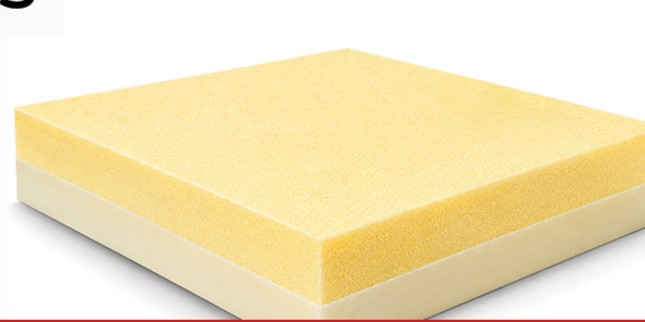
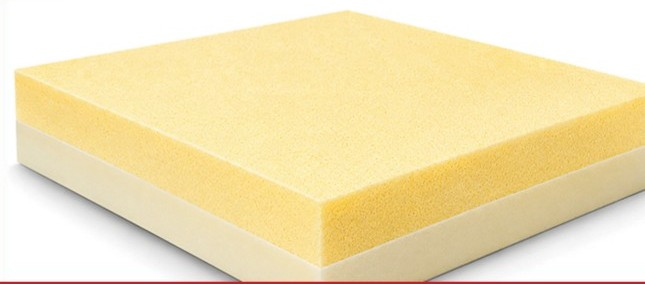
doors changes

diff --git a/src/components/MetalDoors.jsx b/src/components/MetalDoors.jsx
@@ -2,26 +2,43 @@
 import React from 'react';
 import Image from 'next/image';
 import Link from 'next/link';
+import {
+  IndianRupee,
+  SlidersHorizontal,
+  Clock3,
+  BadgeCheck,
+  Boxes,
+  Ruler,
+  FlaskConical,
+  DoorOpen,
+  ShieldAlert,
+  ShieldCheck,
+  AlignJustify,
+  MoveVertical,
+  Lock,
+  PersonStanding,
+  Building2,
+} from 'lucide-react';
 
 const PRODUCT_CATEGORIES = [
-  { name: 'Scientific Door', anchor: 'scientific-door' },
-  { name: 'Cleanroom Door', anchor: 'scientific-door' },
-  { name: 'Fire-Related Door', anchor: 'fire-rated-door' },
-  { name: 'Stainless Steel Doors', anchor: 'stainless-steel-door' },
-  { name: 'General Door & Louvered Door', anchor: 'general-door' },
-  { name: 'Shaft Door', anchor: 'shaft-door' },
-  { name: 'Hatch Door', anchor: null },
-  { name: 'Emergency Exit Door', anchor: null },
-  { name: 'Commercial Building Metal Louvers', anchor: 'metal-louvers' },
+  { name: 'Scientific Door', anchor: 'scientific-door', icon: FlaskConical },
+  { name: 'Cleanroom Door', anchor: 'scientific-door', icon: DoorOpen },
+  { name: 'Fire-Related Door', anchor: 'fire-rated-door', icon: ShieldAlert },
+  { name: 'Stainless Steel Doors', anchor: 'stainless-steel-door', icon: ShieldCheck },
+  { name: 'General Door & Louvered Door', anchor: 'general-door', icon: AlignJustify },
+  { name: 'Shaft Door', anchor: 'shaft-door', icon: MoveVertical },
+  { name: 'Hatch Door', anchor: null, icon: Lock },
+  { name: 'Emergency Exit Door', anchor: null, icon: PersonStanding },
+  { name: 'Commercial Building Metal Louvers', anchor: 'metal-louvers', icon: Building2 },
 ];
 
 const ADVANTAGES = [
-  'Cost-Effective Construction',
-  'Full Control of Design at all Stages',
-  'Minimum Production Lead and Delivery Time',
-  'Production Quality Certified to Standards',
-  'Modular Construction Facility for Easy Transportation',
-  'Variety of Custom Finishes',
+  { text: 'Cost-Effective Construction', icon: IndianRupee, color: 'bg-blue-900' },
+  { text: 'Full Control of Design at all Stages', icon: SlidersHorizontal, color: 'bg-red-700' },
+  { text: 'Minimum Production Lead and Delivery Time', icon: Clock3, color: 'bg-blue-900' },
+  { text: 'Production Quality Certified to Standards', icon: BadgeCheck, color: 'bg-red-700' },
+  { text: 'Modular Construction Facility for Easy Transportation', icon: Boxes, color: 'bg-blue-900' },
+  { text: 'Variety of Custom Finishes', icon: Ruler, color: 'bg-red-700' },
 ];
 
 const COLOR_CODES = [
@@ -54,10 +71,10 @@ const SPEC_ROWS = [
   },
   {
     label: 'Shutter Thickness',
-    cleanroom: ['44 mm'],
-    commercial: ['44 mm'],
-    general: ['44 mm'],
-    fire: ['44 mm'],
+    cleanroom: ['46 mm'],
+    commercial: ['46 mm'],
+    general: ['46 mm'],
+    fire: ['46 mm'],
   },
   {
     label: 'Infill Material',
@@ -98,7 +115,7 @@ const INFILL_MATERIALS = [
   {
     name: 'Rockwool',
     image: '/assets/images/metal-doors/rockwool.jpg',
-    color: 'bg-blue-900',
+    color: 'bg-amber-800',
     points: [
       'High density rockwool board insulation produced from molten basalt spun to fine fibers and bonded with heat resistant binder',
       'Meets the requirements of technical fire performance',
@@ -196,23 +213,6 @@ export default function MetalDoors() {
         </div>
       </section>
 
-      {/* ---------- About Us ---------- */}
-      <section className="max-w-6xl mx-auto px-6 py-8">
-        <h2 className="text-3xl font-bold mb-4 text-blue-800">About Us</h2>
-        <p className="mb-4">
-          Global Enviro Air Systems Pvt. Ltd. is a leading company in Air Pollution Control, HVAC Systems
-          and Cleanroom Technology Systems, Bulk Material Handling, Metal Doors, Engineered Metal Products
-          and end-to-end industrial solutions. Our expertise spans clean room technology, metal castings,
-          and global import-export operations. What sets us apart is our commitment to truly understanding
-          client needs and delivering solutions that work.
-        </p>
-        <p>
-          As one of the industry&apos;s most trusted names, Global Enviro Air Systems Pvt. Ltd. is
-          strategically expanding across diverse sectors. We envision strong, sustainable growth
-          throughout the subcontinent in the years ahead.
-        </p>
-      </section>
-
       {/* ---------- Our Metal Doors ---------- */}
       <section className="max-w-6xl mx-auto grid md:grid-cols-2 gap-8 items-start px-6 py-8">
         <div>
@@ -259,10 +259,12 @@ export default function MetalDoors() {
           Advantages of Our Metal Doors
         </h2>
         <div className="grid sm:grid-cols-2 md:grid-cols-3 gap-6">
-          {ADVANTAGES.map((item) => (
-            <div key={item} className="flex items-start gap-3 bg-gray-50 rounded-lg p-4 border border-gray-100">
-              <span className="mt-1 h-2 w-2 rounded-full bg-red-700 flex-shrink-0" />
-              <span className="font-semibold text-gray-700">{item}</span>
+          {ADVANTAGES.map(({ text, icon: Icon, color }) => (
+            <div key={text} className="flex items-center gap-4 bg-white rounded-lg p-4 border border-gray-100 shadow-sm">
+              <span className={`flex items-center justify-center h-12 w-12 rounded-full ${color} flex-shrink-0`}>
+                <Icon className="h-6 w-6 text-white" />
+              </span>
+              <span className="font-semibold text-gray-700">{text}</span>
             </div>
           ))}
         </div>
@@ -272,24 +274,33 @@ export default function MetalDoors() {
       <section className="max-w-6xl mx-auto px-6 py-8 bg-gray-50 rounded-2xl">
         <h2 className="text-2xl font-semibold text-blue-800 mb-6">Our Products</h2>
         <div className="grid sm:grid-cols-2 md:grid-cols-3 gap-4">
-          {PRODUCT_CATEGORIES.map((cat) =>
-            cat.anchor ? (
+          {PRODUCT_CATEGORIES.map((cat) => {
+            const Icon = cat.icon;
+            const content = (
+              <>
+                <span className="flex items-center justify-center h-10 w-10 rounded-full bg-blue-900 flex-shrink-0">
+                  <Icon className="h-5 w-5 text-white" />
+                </span>
+                <span className="font-semibold">{cat.name}</span>
+              </>
+            );
+            return cat.anchor ? (
               <a
                 key={cat.name}
                 href={`#${cat.anchor}`}
-                className="bg-white rounded-lg border border-gray-200 px-4 py-3 font-semibold text-gray-700 hover:border-blue-300 hover:text-blue-700 hover:shadow-sm transition"
+                className="flex items-center gap-3 bg-white rounded-lg border border-gray-200 px-4 py-3 text-gray-700 hover:border-blue-300 hover:text-blue-700 hover:shadow-sm transition"
               >
-                {cat.name}
+                {content}
               </a>
             ) : (
               <div
                 key={cat.name}
-                className="bg-white rounded-lg border border-gray-200 px-4 py-3 font-semibold text-gray-500"
+                className="flex items-center gap-3 bg-white rounded-lg border border-gray-200 px-4 py-3 text-gray-500"
               >
-                {cat.name}
+                {content}
               </div>
-            )
-          )}
+            );
+          })}
         </div>
       </section>
 
@@ -401,8 +412,9 @@ export default function MetalDoors() {
 
       {/* ---------- General Door & Louver Door ---------- */}
       <section id="general-door" className="max-w-6xl mx-auto px-6 py-8 scroll-mt-28 border-t border-gray-100">
-        <h3 className="text-2xl font-semibold text-blue-800 mb-1">General Door</h3>
-        <p className="text-lg text-red-700 font-semibold mb-3">& Louver Door</p>
+        <h3 className="text-2xl font-semibold mb-3">
+          <span className="text-blue-800">General Door</span> <span className="text-red-700">& Louver Door</span>
+        </h3>
         <p className="mb-4">
           General doors — commonly referred to as general-purpose commercial doors or utility doors — are
           standard architectural swing doors designed for areas that do not require specialized cleanroom

diff --git a/src/app/service/HVAC/Paneling/[slug]/page.jsx b/src/app/service/HVAC/Paneling/[slug]/page.jsx
@@ -2,20 +2,20 @@
 import { useParams } from 'next/navigation';
 import Link from 'next/link';
 import PanelForWalls from '@/app/service/HVAC/Paneling/[slug]/PanelForWalls';
-import Doors from '@/app/service/HVAC/Paneling/[slug]/Doors';
+import MetalDoors from '@/components/MetalDoors';
 import CrushPanel from '@/app/service/HVAC/Paneling/[slug]/CrushPanel';
 import GlassWindows from '@/app/service/HVAC/Paneling/[slug]/GlassWindows';
 
 const componentMap = {
   'panel-for-walls-partitions-ceiling': PanelForWalls,
-  'doors': Doors,
+  'doors': MetalDoors,
   'crush-panel': CrushPanel,
   'glass-windows': GlassWindows,
 };
 
 const items = [
   { name: 'Panel for Walls, Partitions & Ceiling', slug: 'panel-for-walls-partitions-ceiling' },
-  { name: 'Doors', slug: 'doors' },
+  { name: 'Metal Doors', slug: 'doors' },
   { name: 'Crush Panel', slug: 'crush-panel' },
   { name: 'Glass Windows', slug: 'glass-windows' },
 ];

diff --git a/src/app/service/HVAC/page.jsx b/src/app/service/HVAC/page.jsx
@@ -245,7 +245,7 @@ const sections = [
         ],
       },
       {
-        title: "Doors",
+        title: "Metal Doors",
         slug: "doors",
         description:
           "Metal Doors are durable, hygienic, and secure doors commonly used in cleanrooms, pharmaceutical facilities, hospitals, laboratories, industrial facilities, and commercial facilities. We are designed to provide strength, cleanliness, fire resistance, and environmental control while withstanding frequent use. Industrial and clean room doors are specially designed to provide secure, hygienic, and efficient access control in controlled environments and industrial facilities. Built with durable materials and precision-engineered sealing systems, these doors ensure smooth operation, thermal insulation, contamination control, and long-term reliability.",

diff --git a/src/components/Layouts/Footer.jsx b/src/components/Layouts/Footer.jsx
@@ -73,6 +73,7 @@ const Footer = () => {
             <li><a href="/service/MaterialHandling" className="text-gray-700 hover:text-blue-700 hover:underline">Material Handling Systems</a></li>
             <li><a href="https://www.jettechenergy.com/" target="_blank" rel="noopener noreferrer" className="text-gray-700 hover:text-blue-700 hover:underline">EPC Power Projects</a></li>
             <li><a href="/service/Metallurgicals" className="text-gray-700 hover:text-blue-700 hover:underline">Metallurgicals & Briquettes</a></li>
+            <li><a href="/metal-doors" className="text-gray-700 hover:text-blue-700 hover:underline">Metal Doors</a></li>
           </ul>
 
           {/* CONTACT CTA */}

diff --git a/src/components/Layouts/Navbar.jsx b/src/components/Layouts/Navbar.jsx
@@ -77,6 +77,7 @@ const navItems = [
         ],
       },
       { title: "SV Bio Fuels", url: "/Ourgroup/SVBioFuels" },
+      { title: "Metal Doors", url: "/metal-doors" },
     ],
   },
 
